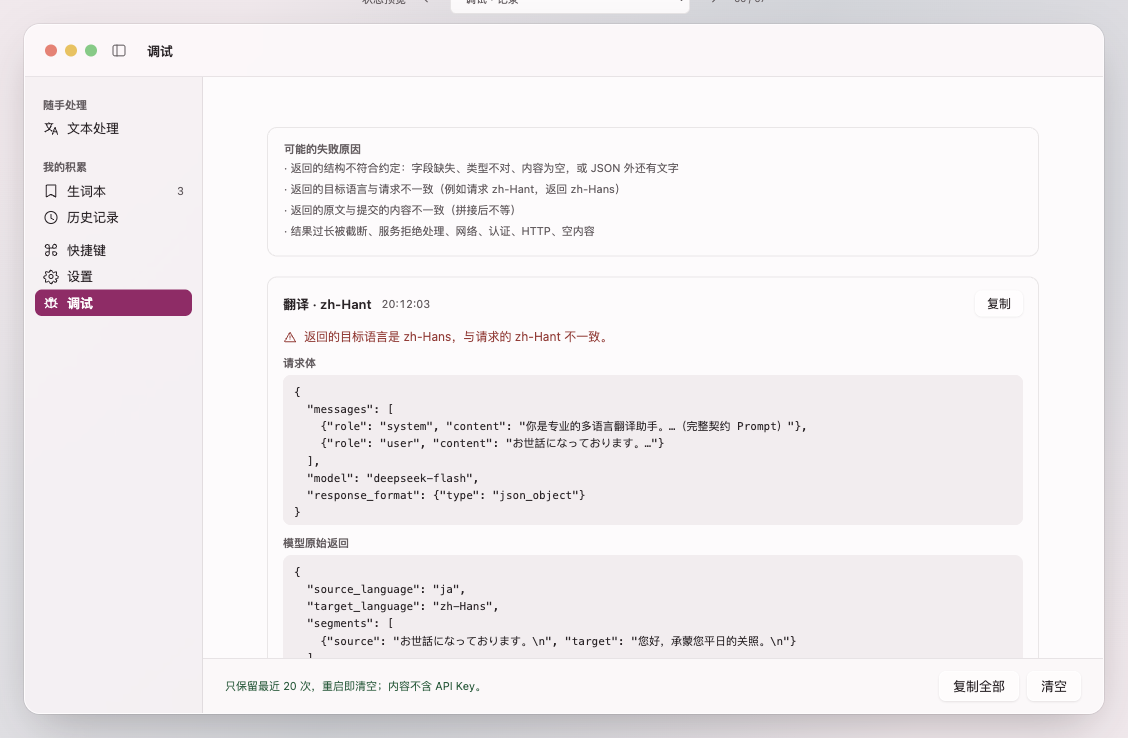
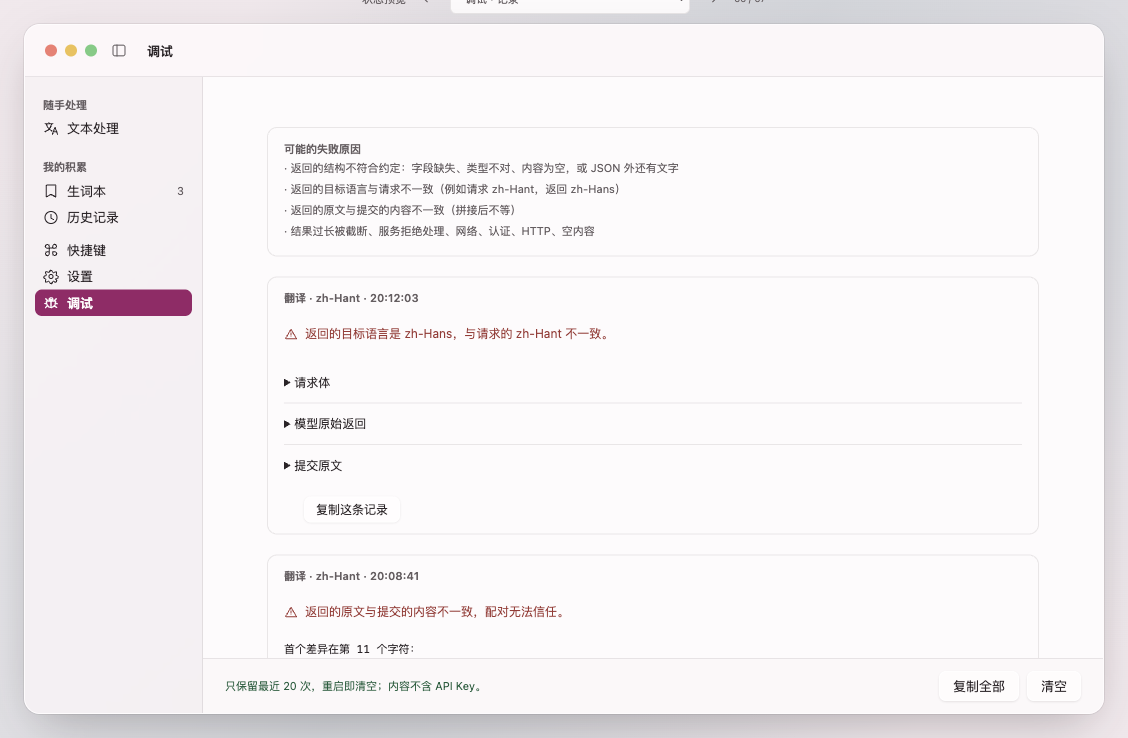
design(debug): build the page from system components
调试页原来用自绘卡片和圆角背景，违反「能用系统组件就不用自定义」。改成原生形状：

- 整页是 inset grouped `Form`，每次交换一个 `Section`（头部是操作与时间）
- 失败行用 `Label(systemImage:)` + 系统红
- 请求体／模型原始返回／提交原文各用一个 `DisclosureGroup`，长文本默认折叠
- 复制与清空留在 `PageFooter` 的玻璃按钮里

设计图同步成同样的形状（分组表单 + disclosure + 页脚），不再画自绘卡片。顺带把组件对照
文里已过期的部分改成现状：67 个状态、11 个分区、无提案画面，并补上目标语言映射与调试页
的逐屏对照与实现位置。

diff --git a/Owlet/Debug/DebugView.swift b/Owlet/Debug/DebugView.swift
@@ -7,22 +7,58 @@ struct DebugView: View {
     @State private var log = DebugLog.shared
 
     var body: some View {
-        ScrollView {
-            LazyVStack(alignment: .leading, spacing: 18) {
-                legend
-                if log.exchanges.isEmpty {
+        Form {
+            Section("可能的失败原因") {
+                Text(
+                    """
+                    · 返回的结构不符合约定：字段缺失、类型不对、内容为空，或 JSON 外还有文字
+                    · 返回的目标语言与请求不一致（例如请求 zh-Hant，返回 zh-Hans）
+                    · 返回的原文与提交的内容不一致（拼接后不等）
+                    · 结果过长被截断、服务拒绝处理、网络、认证、HTTP、空内容
+                    """
+                )
+                .font(.system(size: 11))
+                .foregroundStyle(.secondary)
+                .textSelection(.enabled)
+            }
+
+            if log.exchanges.isEmpty {
+                Section {
                     Text("还没有记录。打开「调试」后发一次翻译或润色，这里就会显示这次请求与返回。")
                         .font(.system(size: 12))
                         .foregroundStyle(.secondary)
-                } else {
-                    ForEach(log.exchanges) { exchange in
-                        card(exchange)
+                }
+            } else {
+                ForEach(log.exchanges) { exchange in
+                    Section {
+                        if let failure = exchange.failure {
+                            Label(failure, systemImage: "exclamationmark.triangle")
+                                .foregroundStyle(.red)
+                                .textSelection(.enabled)
+                        }
+                        if let divergence = exchange.sourceDivergence {
+                            Text(divergence)
+                                .font(.system(size: 11, design: .monospaced))
+                                .textSelection(.enabled)
+                        }
+                        block("请求体", exchange.request)
+                        if let response = exchange.response {
+                            block("模型原始返回", response)
+                        }
+                        block("提交原文", exchange.submitted)
+                        Button("复制这条记录") { Clipboard.copy(exchange.report) }
+                    } header: {
+                        HStack {
+                            Text(exchange.title)
+                            Spacer(minLength: 0)
+                            Text(exchange.date.formatted(date: .omitted, time: .standard))
+                                .foregroundStyle(.secondary)
+                        }
                     }
                 }
             }
-            .padding(.horizontal, 24)
-            .padding(.vertical, 20)
         }
+        .formStyle(.grouped)
         .navigationTitle("调试")
         .safeAreaBar(edge: .bottom) {
             PageFooter {
@@ -38,59 +74,10 @@ struct DebugView: View {
         }
     }
 
-    /// The failures the contract can produce, so the raw data below has something to be read against.
-    private var legend: some View {
-        VStack(alignment: .leading, spacing: 6) {
-            Text("可能的失败原因").font(.system(size: 12, weight: .semibold))
-            Text(
-                """
-                · 返回的结构不符合约定：字段缺失、类型不对、内容为空，或 JSON 外还有文字
-                · 返回的目标语言与请求不一致（例如请求 zh-Hant，返回 zh-Hans）
-                · 返回的原文与提交的内容不一致（拼接后不等）
-                · 结果过长被截断、服务拒绝处理、网络、认证、HTTP、空内容
-                """
-            )
-            .font(.system(size: 11))
-            .foregroundStyle(.secondary)
-            .textSelection(.enabled)
-        }
-        .frame(maxWidth: .infinity, alignment: .leading)
-    }
-
-    private func card(_ exchange: DebugExchange) -> some View {
-        VStack(alignment: .leading, spacing: 10) {
-            HStack(spacing: 10) {
-                Text(exchange.title).font(.system(size: 13, weight: .semibold))
-                Text(exchange.date.formatted(date: .omitted, time: .standard))
-                    .font(.system(size: 11))
-                    .foregroundStyle(.secondary)
-                Spacer(minLength: 0)
-                Button("复制") { Clipboard.copy(exchange.report) }
-                    .buttonStyle(.glass)
-            }
-            if let failure = exchange.failure {
-                Label(failure, systemImage: "exclamationmark.triangle")
-                    .font(.system(size: 12))
-                    .foregroundStyle(.red)
-                    .textSelection(.enabled)
-            }
-            if let divergence = exchange.sourceDivergence {
-                Text(divergence)
-                    .font(.system(size: 11, design: .monospaced))
-                    .textSelection(.enabled)
-            }
-            block("请求体", exchange.request)
-            if let response = exchange.response { block("模型原始返回", response) }
-            block("提交原文", exchange.submitted)
-        }
-        .padding(14)
-        .background(.background.secondary, in: RoundedRectangle(cornerRadius: 10))
-        .accessibilityElement(children: .contain)
-    }
-
+    /// Long text stays folded behind a disclosure, so the page opens on the failure, not on a wall of
+    /// JSON.
     private func block(_ title: String, _ text: String) -> some View {
-        VStack(alignment: .leading, spacing: 4) {
-            Text(title).font(.system(size: 11, weight: .semibold)).foregroundStyle(.secondary)
+        DisclosureGroup(title) {
             Text(text)
                 .font(.system(size: 11, design: .monospaced))
                 .textSelection(.enabled)

diff --git a/design/index.html b/design/index.html
@@ -221,19 +221,16 @@ body.board-open #sourceDrawer,body.board-open #toast{display:none!important}
 .mapping-row .arrow{color:var(--muted);font-size:12px}
 .mapping-row .iconbtn{display:grid;place-items:center;width:26px;height:26px;padding:0;color:var(--muted);flex:none}
 .mapping-row .iconbtn:hover{color:oklch(48% .14 25);background:oklch(48% .14 25/.1)}
-/* Debug page: the captured model exchanges behind the hidden diagnostics page. */
-.debug-card{border:1px solid var(--line);border-radius:10px;background:var(--paper);padding:13px 15px;margin-bottom:14px}
-.debug-head{display:flex;align-items:center;gap:10px;margin-bottom:8px}
-.debug-head .name{font-size:13px;font-weight:600}
-.debug-head .time{font-size:11px;color:var(--muted);font-variant-numeric:tabular-nums}
-.debug-head .glass-btn{margin-left:auto}
-.debug-failure{display:flex;align-items:center;gap:7px;font-size:12px;color:oklch(48% .14 25);margin-bottom:8px}
-.debug-failure svg{width:14px;height:14px;flex:none}
-.debug-diff{font-family:ui-monospace,SFMono-Regular,Menlo,monospace;font-size:11px;line-height:1.6;white-space:pre-wrap;background:oklch(95% .007 350);border-radius:8px;padding:9px 11px;margin-bottom:10px}
-.debug-block{margin-top:10px}
-.debug-block h4{font-size:11px;font-weight:600;color:var(--muted);margin:0 0 5px}
-.debug-block pre{font-family:ui-monospace,SFMono-Regular,Menlo,monospace;font-size:11px;line-height:1.55;white-space:pre-wrap;word-break:break-word;background:oklch(95% .007 350);border-radius:8px;padding:9px 11px;margin:0;max-height:150px;overflow:auto}
+/* Debug page: the captured model exchanges behind the hidden diagnostics page. It is a grouped form —
+   one section per exchange, disclosures for the long payloads — like the rest of settings. */
+.debug-block{padding:10px 0;border-bottom:1px solid var(--line)}
+.debug-block:last-of-type{border-bottom:0}
+.debug-block summary{cursor:pointer;font-size:12px;padding:2px 0}
+.debug-block pre{font-size:11px;line-height:1.6;white-space:pre-wrap;word-break:break-word;overflow:auto;background:oklch(95% .007 350);padding:10px 12px;border-radius:8px;margin:8px 0 0}
 .debug-legend{font-size:11px;line-height:1.9;color:var(--muted);margin:2px 0 14px}
+.debug-failure{display:flex;align-items:center;gap:7px;font-size:12px;color:oklch(48% .14 25);padding:8px 0}
+.debug-failure svg{width:14px;height:14px;flex:none}
+.debug-diff{font-family:ui-monospace,SFMono-Regular,Menlo,monospace;font-size:11px;line-height:1.6;white-space:pre-wrap;margin:0 0 10px}
 .window.window-narrow{width:760px;max-width:100%}
 .count{margin-left:auto;font-size:11px;font-weight:400;color:var(--muted);font-variant-numeric:tabular-nums}
 .nav.active .count{color:oklch(99% .003 350/.8)}
@@ -722,12 +719,13 @@ const DEBUG_ENTRIES=[
    response:'{\n  "source_language": "ja",\n  "target_language": "zh-Hant",\n  "segments": [\n    {"source": "株式会社PeopleX外国籍ITエンジニア紹介部門\\n", "target": "…"}\n  ]\n}'}
 ];
 function debugCard(e){
-  return `<div class="debug-card"><div class="debug-head"><span class="name">${e.title}</span><span class="time">${e.time}</span><button class="glass-btn">复制</button></div>`
+  return `<div class="form-section"><p class="group-title">${e.title} · ${e.time}</p>`
    +`<p class="debug-failure">${icon('warn')}${esc(e.failure)}</p>`
-   +(e.diff?`<p class="debug-diff">${esc(e.diff)}</p>`:'')
-   +`<div class="debug-block"><h4>请求体</h4><pre>${esc(DEBUG_REQUEST)}</pre></div>`
-   +`<div class="debug-block"><h4>模型原始返回</h4><pre>${esc(e.response)}</pre></div>`
-   +`<div class="debug-block"><h4>提交原文</h4><pre>${esc(DEBUG_SUBMITTED)}</pre></div></div>`;
+   +(e.diff?`<pre class="debug-diff">${esc(e.diff)}</pre>`:'')
+   +`<details class="debug-block"><summary>请求体</summary><pre>${esc(DEBUG_REQUEST)}</pre></details>`
+   +`<details class="debug-block"><summary>模型原始返回</summary><pre>${esc(e.response)}</pre></details>`
+   +`<details class="debug-block"><summary>提交原文</summary><pre>${esc(DEBUG_SUBMITTED)}</pre></details>`
+   +`<div class="formrow"><span></span><span class="field"><button class="glass-btn">复制这条记录</button></span></div></div>`;
 }
 function debugHTML(){
   const empty=!!cfg().debugEmpty;
